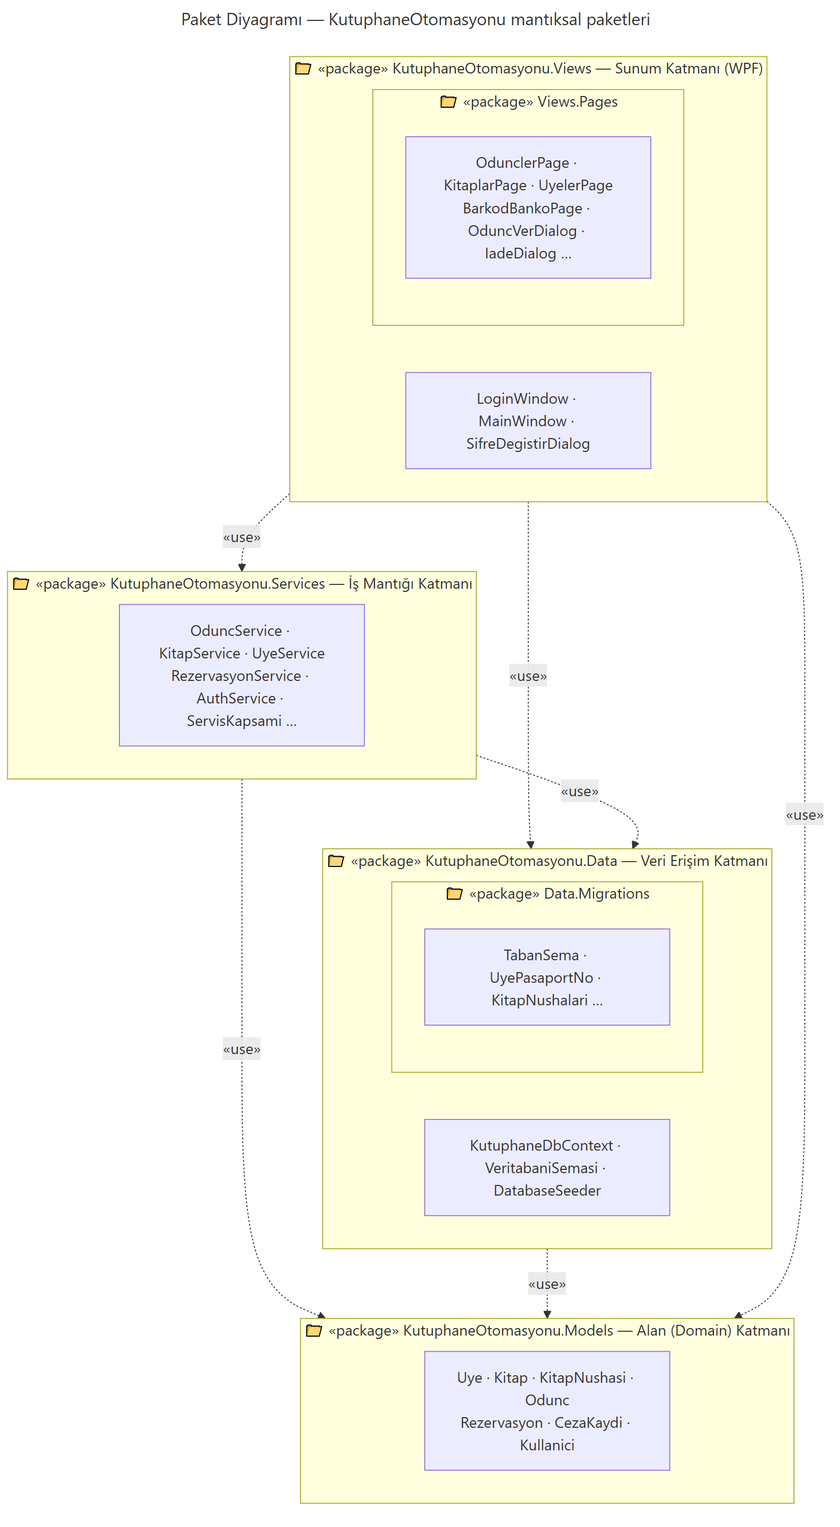
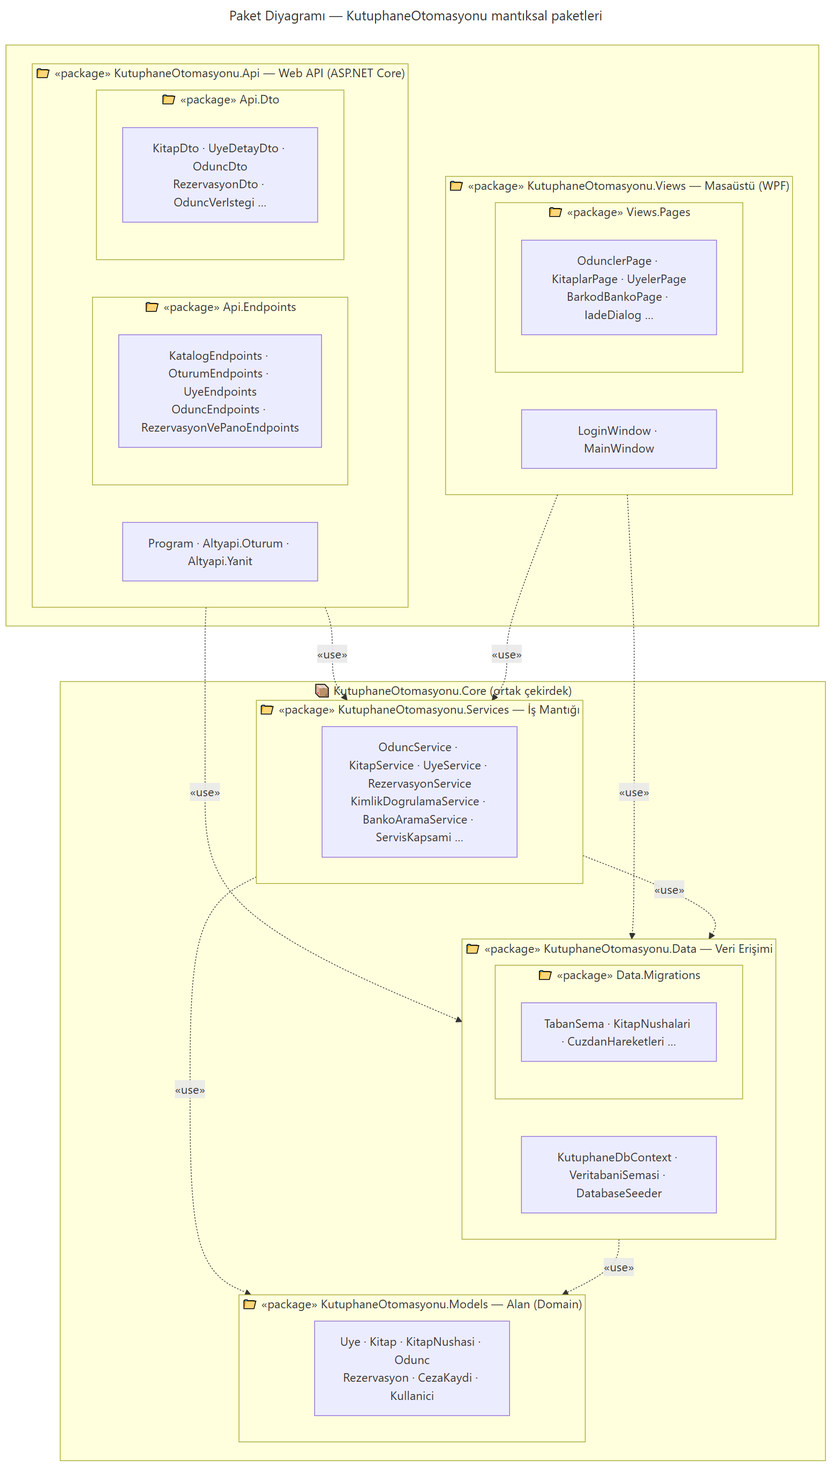
docs: cevrimici kullanim, Web API ve guncel UML diyagramlari
- README: Web API ve tarayici arayuzu bolumu (calistirma, adresler, uc
  noktalar, ayarlar, web guvenligi), yeni dizin yapisi, migration komutu,
  API testleri
- UML: paket diyagrami Api + Core katmanlariyla, dagitim diyagrami gercek
  yapiyla (tarayici istemciler, ASP.NET Core Web API, SQLite) yeniden cizildi
- ENGINEERING_LOG: 3. bolum ve dogrulama kanitlari

diff --git a/README.md b/README.md
@@ -1,13 +1,15 @@
 # 🏛 Kütüphane Yönetim & Akademik Araştırma Sistemi (IRIS Enterprise Suite v3.5)
 
-[![.NET 9.0](https://img.shields.io/badge/.NET-9.0%20Windows%20WPF-512BD4?style=for-the-badge&logo=dotnet)](https://dotnet.microsoft.com/)
+[![.NET 9.0](https://img.shields.io/badge/.NET-9.0%20WPF%20%2B%20ASP.NET%20Core-512BD4?style=for-the-badge&logo=dotnet)](https://dotnet.microsoft.com/)
 [![Architecture](https://img.shields.io/badge/Architecture-Clean%20%26%204--Tier%20Layered-10B981?style=for-the-badge)](https://en.wikipedia.org/wiki/Multitier_architecture)
 [![Database](https://img.shields.io/badge/Database-SQLite%20%2B%20EF%20Core-003B57?style=for-the-badge&logo=sqlite)](https://www.sqlite.org/)
 [![Design Patterns](https://img.shields.io/badge/Patterns-Singleton%20%7C%20Observer%20%7C%20Unit%20of%20Work-7C3AED?style=for-the-badge)](https://en.wikipedia.org/wiki/Design_Patterns)
 [![i18n](https://img.shields.io/badge/i18n-Turkish%20%2F%20English-F59E0B?style=for-the-badge)](https://github.com/sudenurozturkk/KutuphaneOtomasyonu)
 [![Tests](https://img.shields.io/badge/Tests-xUnit%20services%20%2B%20UI%20smoke-22C55E?style=for-the-badge)]()
 
-**IRIS (Integrated Research & Information System)**, dünya çapındaki araştırma üniversiteleri, enstitüler ve konsorsiyumlar (*Ex Libris Alma / FOLIO standardı*) seviyesinde tasarlanmış, ultra-modernist ve kurumsal masaüstü kütüphane otomasyon sistemidir.
+**IRIS (Integrated Research & Information System)**, dünya çapındaki araştırma üniversiteleri, enstitüler ve konsorsiyumlar (*Ex Libris Alma / FOLIO standardı*) seviyesinde tasarlanmış, ultra-modernist ve kurumsal **çevrimiçi kütüphane yönetim sistemidir**: personel ve öğrenciler
+tarayıcıdan **ASP.NET Core Web API** üzerinden, banko personeli ise isterse WPF masaüstü uygulamasıyla çalışır. İki istemci
+de aynı iş kuralları kütüphanesini (`KutuphaneOtomasyonu.Core`) ve aynı veritabanını kullanır.
 
 Yazılım Tasarım Mimarisi (Software Architecture) ilkeleri, **Gang of Four (GoF)** desenleri ve temiz kod prensipleri temel alınarak geliştirilmiştir.
 
@@ -32,11 +34,14 @@ Yazılım Tasarım Mimarisi (Software Architecture) ilkeleri, **Gang of Four (Go
 
 ## 🏛 Mimari Yapı & GoF Tasarım Desenleri
 
-Proje katı **Separation of Concerns (SoC)** ve **Clean Architecture** prensiplerine sadık kalınarak 4 ana katmana ayrılmıştır:
+Proje katı **Separation of Concerns (SoC)** prensibiyle katmanlara ayrılmıştır. İş mantığı, veri erişimi ve alan modelleri
+arayüzden bağımsız `KutuphaneOtomasyonu.Core` kütüphanesindedir; Web API ve WPF bu kütüphanenin iki ayrı istemcisidir:
 
 ```mermaid
 graph TD
-    UI["🎨 Sunum Katmanı (Presentation - WPF/XAML)"] --> Service["⚙ İş Mantığı (Business / Application Services)"]
+    Web["🌐 Tarayıcı Arayüzü (HTML/JS)"] -->|HTTPS · REST/JSON| Api["🔌 Web API (ASP.NET Core)"]
+    Api --> Service
+    UI["🎨 Masaüstü Sunum Katmanı (WPF/XAML)"] --> Service["⚙ İş Mantığı (Business / Application Services)"]
     Service --> Data["💾 Veri Erişim Katmanı (Data Access - EF Core SQLite)"]
     Data --> Domain["📦 Alan Modelleri & Varlıklar (Domain Entities)"]
 
@@ -52,7 +57,7 @@ graph TD
 2. **Observer (`BildirimService.YeniBildirim`):** Bildirim oluşturulduğunda abonelere olay yayını.
 3. **Unit of Work (`KutuphaneDbContext` + `VeritabaniIslemi`):** Ödünç, iade, uzatma ve rezervasyon işlemleri; bildirim ve denetim kaydıyla birlikte tek transaction içinde kalıcı olur.
 
-> Not: `KutuphaneOtomasyonuApp/Patterns/` altındaki Factory/Strategy örnekleri ayrı (derlenmeyen) eski WinForms prototipine aittir;
+> Not: `legacy/WinFormsPrototype/Patterns/` altındaki Factory/Strategy örnekleri ayrı (derlenmeyen) eski WinForms prototipine aittir;
 > WPF uygulamasında üye kotaları `UyeService.VarsayilanKota`, ceza hesabı `OduncService.IadeAlAsync` içindedir.
 
 ---
@@ -82,51 +87,30 @@ graph TD
 
 ```
 KutuphaneOtomasyonu/
-├── Data/                          # Veritabanı ve Tohumlama
-│   ├── KutuphaneDbContext.cs      # EF Core SQLite Bağlantısı & Indexler
-│   ├── VeritabaniIslemi.cs        # İç içe çağrılabilen transaction yardımcısı
-│   ├── VeritabaniSemasi.cs        # Migration'ları uygular; eski (EnsureCreated) kurulumları tabanlar
-│   ├── Migrations/                # EF Core migration'ları (taban, pasaport, KVKK, nüsha, cüzdan)
-│   └── DatabaseSeeder.cs          # Demo verisi: 30 Kitap (+ nüshalar), 50 Üye, 5 Akademik Tez
-├── Models/                        # Domain Varlıkları
-│   ├── Kitap.cs                   # Kitap entity & durum enumları
-│   ├── Uye.cs                     # Üye, rol ve borç modelleri
-│   ├── Odunc.cs                   # Ödünç hareketleri ve ceza takibi
-│   ├── AkademikVeKampus.cs        # Tez, Makale, DOI, Citation, ILL modelleri
-│   ├── DigerModeller.cs           # Rezervasyon, Favori, Bildirim modelleri
-│   └── KullaniciVeAyarlar.cs      # Admin, Kütüphaneci ve Parametreler
-├── Services/                      # İş Mantığı
-│   ├── LocalizationService.cs     # [Singleton] Çoklu dil (TR/EN) servisi
-│   ├── KitapService.cs            # Katalog: doğrulama, stok güncelleme, arşivleme
-│   ├── OduncService.cs            # Ödünç, iade, süre uzatma ve ceza hesabı (transaction içinde)
-│   ├── RezervasyonService.cs      # Rezervasyon kuyruğu, ayırma, ödünce dönüştürme
-│   ├── BankoAramaService.cs       # Barkod bankosu için belirsizliğe dayanıklı eşleştirme
-│   ├── VeritabaniBakimService.cs  # Yedekleme, demo sıfırlama, sistem ayarları (yalnızca Admin)
-│   ├── SifreHasher.cs             # PBKDF2-SHA256 parola özetleme
-│   ├── DenetimService.cs          # AktiviteLog denetim kayıtları
-│   ├── AkademikService.cs         # Tez, DOI, Citation ve ILL lojistiği
-│   ├── SalonRezervasyonService.cs # Salon rezervasyon iş kuralları
-│   ├── CuzdanService.cs           # Cüzdan hareketleri (yükleme, ceza ödeme)
-│   ├── ServisKapsami.cs           # Sayfalar için ortak DbContext + servis kapsamı
-│   └── DigerServisler.cs          # AuthService [Singleton], UyeService, BildirimService [Observer]
-├── Views/                         # Modernist XAML Arayüzleri
-│   ├── LoginWindow.xaml           # Ultra-modern giriş ekranı & Demo butonları
-│   ├── MainWindow.xaml            # 260px ferah sidebar menü, TR/EN dil toggle
-│   └── Pages/                     # 14 Bağımsız Modül Sayfası & 6 Modal Dialog
-│       ├── DashboardPage.xaml     # Yönetici paneli & KPI kartları
-│       ├── KitaplarPage.xaml      # Zengin envanter tablosu & filtreler
-│       ├── AkademikHubPage.xaml   # Tez arşivi & APA/MLA/BibTeX Citation
-│       ├── KampusTransferPage.xaml# ILL Kütüphaneler arası kurye takibi
-│       ├── SalonRezervasyonPage.xaml # 2D interaktif masa haritası
-│       └── ...                    # Diğer 9 modül ve modal diyaloglar
-├── SmokeTester.cs                 # Otomatik Uçtan Uca Doğrulama Motoru
-├── Tests/KutuphaneOtomasyonu.Tests/ # İzole SQLite servis testleri (xUnit)
+├── src/
+│   ├── KutuphaneOtomasyonu.Core/      # Arayüzden bağımsız çekirdek (net9.0 sınıf kütüphanesi)
+│   │   ├── Models/                    # Alan varlıkları: Kitap, KitapNushasi, Uye, Odunc, Rezervasyon, Kullanici …
+│   │   ├── Data/                      # KutuphaneDbContext, Migrations/, VeritabaniSemasi, DatabaseSeeder (demo verisi)
+│   │   └── Services/                  # İş kuralları: OduncService, KitapService, UyeService, RezervasyonService,
+│   │                                  #   KimlikDogrulamaService, BankoAramaService, DenetimService, SifreHasher …
+│   └── KutuphaneOtomasyonu.Api/       # ASP.NET Core Web API (çevrimiçi sistem)
+│       ├── Program.cs                 # Veritabanı, oturum, hız sınırı, OpenAPI, statik dosyalar
+│       ├── Altyapi/                   # Çerez oturumu ve rol politikaları, hata yanıtları, güvenlik başlıkları
+│       ├── Endpoints/                 # Katalog, Oturum, Üyeler, Ödünç, Rezervasyon + Pano uç noktaları
+│       ├── Dto/                       # API'nin döndürdüğü/aldığı veri modelleri
+│       └── wwwroot/                   # Tarayıcı arayüzü (index.html, app.js, app.css)
+├── Views/                             # WPF masaüstü arayüzü (pencereler, 14 sayfa, diyaloglar)
+├── App.xaml(.cs), SmokeTester.cs      # Masaüstü uygulaması girişi ve --test duman testi
+├── KutuphaneOtomasyonu.csproj         # WPF masaüstü uygulaması (Core'a referans verir)
+├── Tests/
+│   ├── KutuphaneOtomasyonu.Tests/     # Servis katmanı testleri (izole SQLite, xUnit)
+│   └── KutuphaneOtomasyonu.Api.Tests/ # Web API entegrasyon testleri (WebApplicationFactory)
 ├── docs/
-│   ├── uml/                       # Sınıf, nesne, paket ve dağıtım diyagramları
-│   ├── engineering-backlog.md     # Bulunan hatalar, kararlar ve doğrulama kanıtları
-│   └── kisisel-veri-notlari.md    # KVKK: işlenen veriler ve teknik tedbirler
-├── ENGINEERING_LOG.md             # Tarihli geliştirme günlüğü
-└── legacy/                        # Derlenmeyen eski WinForms ve web prototipleri (bkz. legacy/README.md)
+│   ├── uml/                           # Sınıf, nesne, paket ve dağıtım diyagramları
+│   ├── engineering-backlog.md         # Bulunan hatalar, kararlar ve doğrulama kanıtları
+│   └── kisisel-veri-notlari.md        # KVKK: işlenen veriler ve teknik tedbirler
+├── ENGINEERING_LOG.md                 # Tarihli geliştirme günlüğü
+└── legacy/                            # Derlenmeyen eski WinForms ve web prototipleri (bkz. legacy/README.md)
 ```
 
 ---
@@ -135,7 +119,7 @@ KutuphaneOtomasyonu/
 
 ### Gereksinimler
 - [.NET 9.0 SDK](https://dotnet.microsoft.com/download/dotnet/9.0)
-- Windows 10 / 11 (x64)
+- Web API: Windows, Linux veya macOS · WPF masaüstü uygulaması: Windows 10 / 11 (x64)
 
 ### Başlatma Adımları
 ```bash
@@ -145,7 +129,10 @@ git clone https://github.com/sudenurozturkk/KutuphaneOtomasyonu.git
 # 2. Dizin içine girin
 cd KutuphaneOtomasyonu
 
-# 3. Bağımlılıkları derleyin ve uygulamayı başlatın
+# 3a. Çevrimiçi sistem: Web API + tarayıcı arayüzü → https://localhost:7215
+dotnet run --project src/KutuphaneOtomasyonu.Api --launch-profile https
+
+# 3b. Masaüstü (WPF) uygulaması (yalnızca Windows)
 dotnet run
 ```
 
@@ -158,7 +145,8 @@ migration'a bağlanır ve yükseltilir (mevcut kitap adetlerinden barkodlu nüsh
 Geliştiriciler için (araç sürümü `.config/dotnet-tools.json` içinde sabitlenmiştir):
 ```bash
 dotnet tool restore
-dotnet ef migrations add <Ad> --output-dir Data/Migrations --namespace KutuphaneOtomasyonu.Data.Migrations
+dotnet ef migrations add <Ad> --project src/KutuphaneOtomasyonu.Core --startup-project src/KutuphaneOtomasyonu.Core \
+  --output-dir Data/Migrations --namespace KutuphaneOtomasyonu.Data.Migrations
 ```
 Yeni migration eklendiğinde `Tests` içindeki şema yükseltme testleri de çalıştırılmalıdır.
 
@@ -218,6 +206,64 @@ Yeni migration eklendiğinde `Tests` içindeki şema yükseltme testleri de çal
 
 ---
 
+## 🌐 Çevrimiçi Kullanım: Web API ve Tarayıcı Arayüzü
+
+Sistem yalnızca masaüstünde değil, **ağ üzerinden de** çalışır. `src/KutuphaneOtomasyonu.Api` projesi aynı iş kurallarını
+(`KutuphaneOtomasyonu.Core`) bir **ASP.NET Core Web API** olarak sunar ve tarayıcı arayüzünü (`wwwroot`) barındırır:
+
+- **Herkes (giriş gerekmez):** katalogda arama, kategori süzme, kitabın nüshalarının rafta/ödünçte durumu.
+- **Personel (giriş ile):** pano, barkod bankosu (nüsha barkodu + üye ile ödünç, barkodla iade), ödünç listesi
+  (uzatma/iade), üyeler, rezervasyonlar, kitap ve üye ekleme.
+
+```bash
+# Web API + tarayıcı arayüzünü başlatın (geliştirme ortamı, demo verisi ile)
+dotnet run --project src/KutuphaneOtomasyonu.Api --launch-profile https
+```
+
+| Adres | İçerik |
+|---|---|
+| `https://localhost:7215/` | Tarayıcı arayüzü (katalog ve personel paneli) |
+| `https://localhost:7215/swagger` | Swagger: tüm uç noktaları deneme arayüzü (yalnızca geliştirme ortamında) |
+| `https://localhost:7215/openapi/v1.json` | OpenAPI belgesi |
+
+Aynı ağdaki başka cihazlardan erişmek için sunucuyu `--urls "https://0.0.0.0:7215"` ile başlatıp güvenlik duvarında
+portu açın. Personel girişinde masaüstü uygulamasıyla aynı hesaplar kullanılır (`admin` / `admin123`, `fatmak` / `123456`).
+
+### Uç noktalar
+
+| Yöntem ve yol | Yetki | Açıklama |
+|---|---|---|
+| `GET /api/katalog`, `GET /api/katalog/{id}`, `GET /api/katalog/kategoriler` | Herkes | Arama (sayfalı), kitap ve nüsha durumu |
+| `POST /api/oturum/giris`, `POST /api/oturum/cikis`, `GET /api/oturum/ben`, `POST /api/oturum/sifre` | — / Oturum | Giriş, çıkış, oturum bilgisi, parola değişimi |
+| `GET /api/pano` | Personel | Özet sayılar ve iade tarihi yaklaşan ödünçler |
+| `GET /api/oduncler` · `POST /api/oduncler` | Personel | Aktif/gecikmiş/üye geçmişi · nüsha barkodu veya kitap + üye ile ödünç |
+| `POST /api/oduncler/{id}/iade` · `POST /api/oduncler/iade-barkod` · `POST /api/oduncler/{id}/uzat` | Personel | İade (durum: İyi/Hasarlı/Kayıp…) ve süre uzatma |
+| `GET /api/uyeler`, `GET /api/uyeler/{id}` | Personel | Arama ve detay (Yardımcı Personel'e kimlik/telefon maskeli) |
+| `POST /api/uyeler`, `PUT /api/uyeler/{id}`, `POST /api/uyeler/{id}/ceza-ode` | Kütüphaneci | Üye kaydı, güncelleme, ceza tahsilatı |
+| `POST /api/kitaplar`, `PUT /api/kitaplar/{id}`, `DELETE /api/kitaplar/{id}` | Kütüphaneci | Kitap ekleme, güncelleme, arşivleme |
+| `GET/POST /api/rezervasyonlar`, `POST …/{id}/iptal`, `POST …/{id}/odunce-donustur` | Personel | Bekleme sırası |
+
+Hatalar [RFC 9457 Problem Details](https://www.rfc-editor.org/rfc/rfc9457) biçiminde döner; kullanıcıya gösterilecek
+mesaj `detail` alanındadır. Enum değerleri metin olarak gelir (`"Aktif"`, `"Rafta"` …).
+
+### Ayarlar (`appsettings.json` veya ortam değişkenleri)
+
+| Anahtar | Varsayılan | Açıklama |
+|---|---|---|
+| `Veritabani:Yol` | boş → `%APPDATA%\KutuphaneOtomasyonu\kutuphane.db` | Boş bırakılırsa masaüstü uygulamasıyla **aynı veritabanı** kullanılır. Ortam değişkeni: `Veritabani__Yol` |
+| `Veritabani:DemoVerisi` | `false` (geliştirmede `true`) | Boş veritabanına demo verisi yükler |
+| `Guvenlik:VarsayilanSifreDegisimiZorunlu` | `true` (geliştirmede `false`) | Varsayılan/kısa parolayla giren personel, parolasını değiştirene kadar işlem yapamaz |
+
+### Web güvenliği
+- Oturum çerezi `HttpOnly`, `SameSite=Strict` ve üretimde `Secure`; 8 saat, kayan süre. Her istekte personelin hâlâ
+  aktif olduğu ve rolünün değişmediği veritabanından denetlenir.
+- Giriş: hesap başına 5 hatalı denemede 1 dakika kilit + IP başına dakikada 10 deneme sınırı (`429`).
+- Yanıtlar veritabanı varlıklarını değil, ayrı veri modellerini (DTO) döndürür; parola özeti veya gereksiz kişisel veri dışarı çıkmaz.
+- Tarayıcı arayüzünde kullanıcı verisi yalnızca metin olarak yazılır; `Content-Security-Policy` satır içi betiğe izin vermez,
+  `X-Frame-Options: DENY`, `nosniff`, üretimde HSTS ve HTTPS yönlendirmesi açıktır.
+
+---
+
 ## 🧪 Otomatik Test ve Sağlamlık Doğrulaması
 
 Proje, 14 modülün, 6 modal pencerenin ve tüm menü geçişlerinin UI seviyesinde hatasız çalıştığını test eden yerleşik bir test motoruna sahiptir:
@@ -235,6 +281,17 @@ Servis katmanını WPF başlatmadan, izole SQLite veritabanlarında test etmek i
 ```bash
 dotnet test .\Tests\KutuphaneOtomasyonu.Tests\KutuphaneOtomasyonu.Tests.csproj
 ```
+
+Web API'yi gerçek HTTP istekleriyle (geçici veritabanı, üretim ayarları) test etmek için:
+
+```bash
+dotnet test .\Tests\KutuphaneOtomasyonu.Api.Tests\KutuphaneOtomasyonu.Api.Tests.csproj
+```
+
+API testleri; anonim katalog erişimini, oturumsuz isteklerin `401` almasını, çerez güvenlik özelliklerini, hesap kilidini,
+pasifleştirilen personelin oturumunun düşmesini, barkodla ödünç/iade turunu ve denetim kaydını, **eşzamanlı isteklerde son
+nüshanın yalnızca bir kez verilmesini**, rol bazlı maskeleme ve `403` yanıtlarını, zorunlu parola değişimini ve güvenlik
+başlıklarını doğrular.
 
 Testler uygulamanın gerçek şema hazırlığını (tetikleyiciler ve indeksler dahil) kullanır ve şunları kapsar:
 ödünç/iade/uzatma kuralları ve stok değişmezi, gecikme/hasar/kayıp cezaları, rezervasyon kuyruğu ve ayırma,

diff --git a/docs/uml/README.md b/docs/uml/README.md
@@ -7,7 +7,7 @@ Her diyagramın kaynağı bir Mermaid dosyasıdır (`.mmd`); `.png` ve `.svg` do
 |---|---|---|
 | 1 | En az dört sınıflı sınıf diyagramı, ilişkiler ve çokluklar | [1-sinif-diyagrami](1-sinif-diyagrami.png) |
 | 2 | Bir öğrencinin ödünç aldığı kitaba ait nesne diyagramı | [2-nesne-diyagrami](2-nesne-diyagrami.png) |
-| 3 | En az 3 mantıksal paket | [3-paket-diyagrami](3-paket-diyagrami.png) |
+| 3 | En az 3 mantıksal paket (5 paket) | [3-paket-diyagrami](3-paket-diyagrami.png) |
 | 4 | Web API ve veritabanı içeren dağıtım diyagramı | [4-dagitim-diyagrami](4-dagitim-diyagrami.png) |
 
 ---
@@ -47,33 +47,37 @@ Bilgisayar Mühendisliği öğrencisi **Ayşe Yılmaz**'ın, kütüphaneci **Fat
 
 ![Paket diyagramı](3-paket-diyagrami.png)
 
-Kod, C# isim alanlarına (namespace) karşılık gelen 4 mantıksal pakete ve 2 alt pakete ayrılmıştır:
+Kod, C# isim alanlarına (namespace) karşılık gelen 5 mantıksal pakete ve 4 alt pakete ayrılmıştır. `Services`, `Data` ve
+`Models` arayüzden bağımsız **KutuphaneOtomasyonu.Core** kütüphanesindedir; iki sunum paketi bu çekirdeği paylaşır:
 
 | Paket | Sorumluluk |
 |---|---|
-| `KutuphaneOtomasyonu.Views` (+ `Views.Pages`) | Sunum katmanı: WPF pencereleri, sayfalar ve diyaloglar |
-| `KutuphaneOtomasyonu.Services` | İş mantığı: ödünç/iade kuralları, rezervasyon kuyruğu, yetkilendirme |
+| `KutuphaneOtomasyonu.Api` (+ `Api.Endpoints`, `Api.Dto`) | Web API: HTTP uç noktaları, oturum ve yetki, API veri modelleri, tarayıcı arayüzü |
+| `KutuphaneOtomasyonu.Views` (+ `Views.Pages`) | Masaüstü (WPF) arayüzü: pencereler, sayfalar ve diyaloglar |
+| `KutuphaneOtomasyonu.Services` | İş mantığı: ödünç/iade kuralları, rezervasyon kuyruğu, kimlik doğrulama |
 | `KutuphaneOtomasyonu.Data` (+ `Data.Migrations`) | Veri erişimi: EF Core `DbContext`, şema migration'ları, demo verisi |
 | `KutuphaneOtomasyonu.Models` | Alan (domain) sınıfları: `Uye`, `Kitap`, `Odunc` … |
 
-Bağımlılıklar yukarıdan aşağıya doğrudur; `Models` hiçbir pakete bağımlı değildir, alt katmanlar üst katmanları bilmez.
+Bağımlılıklar yukarıdan aşağıya doğrudur: `Models` hiçbir pakete bağımlı değildir, çekirdek paketler `Api` veya `Views`'i
+bilmez. Bu sayede aynı iş kuralları hem web'de hem masaüstünde birebir aynı çalışır.
 
 ## 4. Dağıtım Diyagramı
 
 ![Dağıtım diyagramı](4-dagitim-diyagrami.png)
 
-Üç katmanlı dağıtım gösterilmiştir:
+Sistem çevrimiçi çalışır; istemciler yalnızca bir web tarayıcısıdır:
 
-- **Kütüphane bankosu PC:** WPF masaüstü istemcisi (`KutuphaneOtomasyonu.exe`) ve USB barkod okuyucu.
-- **Öğrenci cihazı:** tarayıcı veya mobilden katalog arama (OPAC).
-- **Uygulama sunucusu:** ASP.NET Core Web API; istemciler HTTPS üzerinden REST/JSON ile bağlanır. API, projedeki
-  `Services`, `Models` ve `Data` paketlerini kullanır.
-- **Veritabanı sunucusu:** ilişkisel veritabanı; API'ye EF Core üzerinden TCP/IP ile bağlanır.
+- **Kütüphane bankosu PC:** tarayıcıda personel paneli (giriş, banko, ödünçler, üyeler, rezervasyonlar). USB barkod
+  okuyucu klavye gibi çalışır ve barkodu doğrudan forma yazar.
+- **Öğrenci cihazı (PC veya mobil):** tarayıcıdan katalog araması ve kitabın rafta olup olmadığı (giriş gerekmez).
+- **Uygulama sunucusu:** .NET 9 / ASP.NET Core (Kestrel) üzerinde `KutuphaneOtomasyonu.Api.dll` çalışır; REST/JSON uç
+  noktalarını ve tarayıcı arayüzü dosyalarını (`wwwroot`) HTTPS üzerinden sunar. İş kuralları `KutuphaneOtomasyonu.Core.dll`
+  içindedir.
+- **Veritabanı:** `kutuphane.db`, EF Core ve Microsoft.Data.Sqlite ile erişilen SQLite veritabanıdır. SQLite gömülü bir
+  VTYS olduğundan ayrı bir sunucu süreci yoktur; veritabanı dosyası uygulama sunucusunda durur.
 
-> **Not:** Projenin şu anki sürümü tek makinede çalışır: WPF istemcisi, EF Core ile yerel bir SQLite dosyasına
-> (`%APPDATA%\KutuphaneOtomasyonu\kutuphane.db`) doğrudan bağlanır ve depoda bir Web API projesi yoktur. Bu diyagram,
-> ödevde istenen Web API'li çok kullanıcılı **hedef dağıtımı** gösterir. Katmanlı yapı sayesinde `Services`/`Models`/`Data`
-> paketleri değişmeden bir Web API projesine taşınabilir; EF Core sağlayıcısı SQLite'tan PostgreSQL'e değiştirilir.
+İsteğe bağlı olarak WPF masaüstü uygulaması da sunucu makinesinde aynı veritabanı dosyasıyla çalışabilir (diyagramda
+gösterilmemiştir). Ayrıntılar ve çalıştırma komutları: ana [README](../../README.md) → "Çevrimiçi Kullanım".
 
 ---
 

diff --git a/ENGINEERING_LOG.md b/ENGINEERING_LOG.md
@@ -1,5 +1,40 @@
 # Engineering Log
 
+## 2026-10-16 cycle, part 3 — online system: Web API + browser UI
+
+Course requirement: "online library management system" with a deployment diagram containing a Web API and a database.
+
+### Completed
+
+- `src/KutuphaneOtomasyonu.Core` (net9.0): `Models`, `Data`, `Services` moved out of the WPF project with `git mv`
+  (namespaces unchanged). WPF app and tests reference Core; the test project no longer needs WPF.
+- `KimlikDogrulamaService`: stateless credential check, lockout, hash upgrade and password change. `AuthService` keeps only
+  the desktop session. `OduncService.IadeAlAsync/UzatAsync` take the acting user explicitly (no global session lookup).
+- `src/KutuphaneOtomasyonu.Api` (ASP.NET Core 9 minimal APIs): public catalogue; cookie session (HttpOnly, SameSite=Strict,
+  Secure outside Development) re-validated against the database on every request; role policies; per-IP login rate limit;
+  forced password change (configurable); DTOs instead of entities; role-based masking; Problem Details; CSP and other
+  security headers; OpenAPI + Swagger UI in Development; `wwwroot` dependency-free single-page UI.
+- `Tests/KutuphaneOtomasyonu.Api.Tests`: 18 integration tests via `WebApplicationFactory` on a temp SQLite file.
+- UML: package and deployment diagrams redrawn for the real architecture; README "Çevrimiçi Kullanım" section.
+
+### Verification
+
+- Build WPF + API: 0 warnings, 0 errors. `has-pending-model-changes` (Core): none.
+- `KutuphaneOtomasyonu.Tests`: 140 passed. `KutuphaneOtomasyonu.Api.Tests`: 18 passed.
+  Mutation check: removing authorization from the loan endpoints makes 2 tests fail.
+- WPF smoke (`--test`): exit 0, 44 PASS, 0 FAIL.
+- Headless Chrome on a temp demo DB: catalogue search, redirect to login, admin login, lend by copy barcode + student number,
+  duplicate lend rejected with message, return by barcode, logout (session 401), no horizontal scroll at 390 px,
+  light and dark themes; no script errors or CSP violations. Found and fixed: `replaceChildren(null)` rendered "null".
+- Live `%APPDATA%` database timestamp unchanged.
+
+### Notes
+
+- With `Veritabani:Yol` empty the API uses the same database file as the desktop app. SQLite is an embedded engine, so the
+  database lives on the application server; moving to a separate DB server would need a provider change (migrations
+  contain SQLite-specific trigger SQL).
+- Member self-service login is not implemented (members have no credentials); the public catalogue needs no login.
+
 ## 2026-10-16 cycle, part 2 — resolving all open decisions
 
 Decisions and evidence per item: `docs/engineering-backlog.md` ("Owner decisions — resolved").
